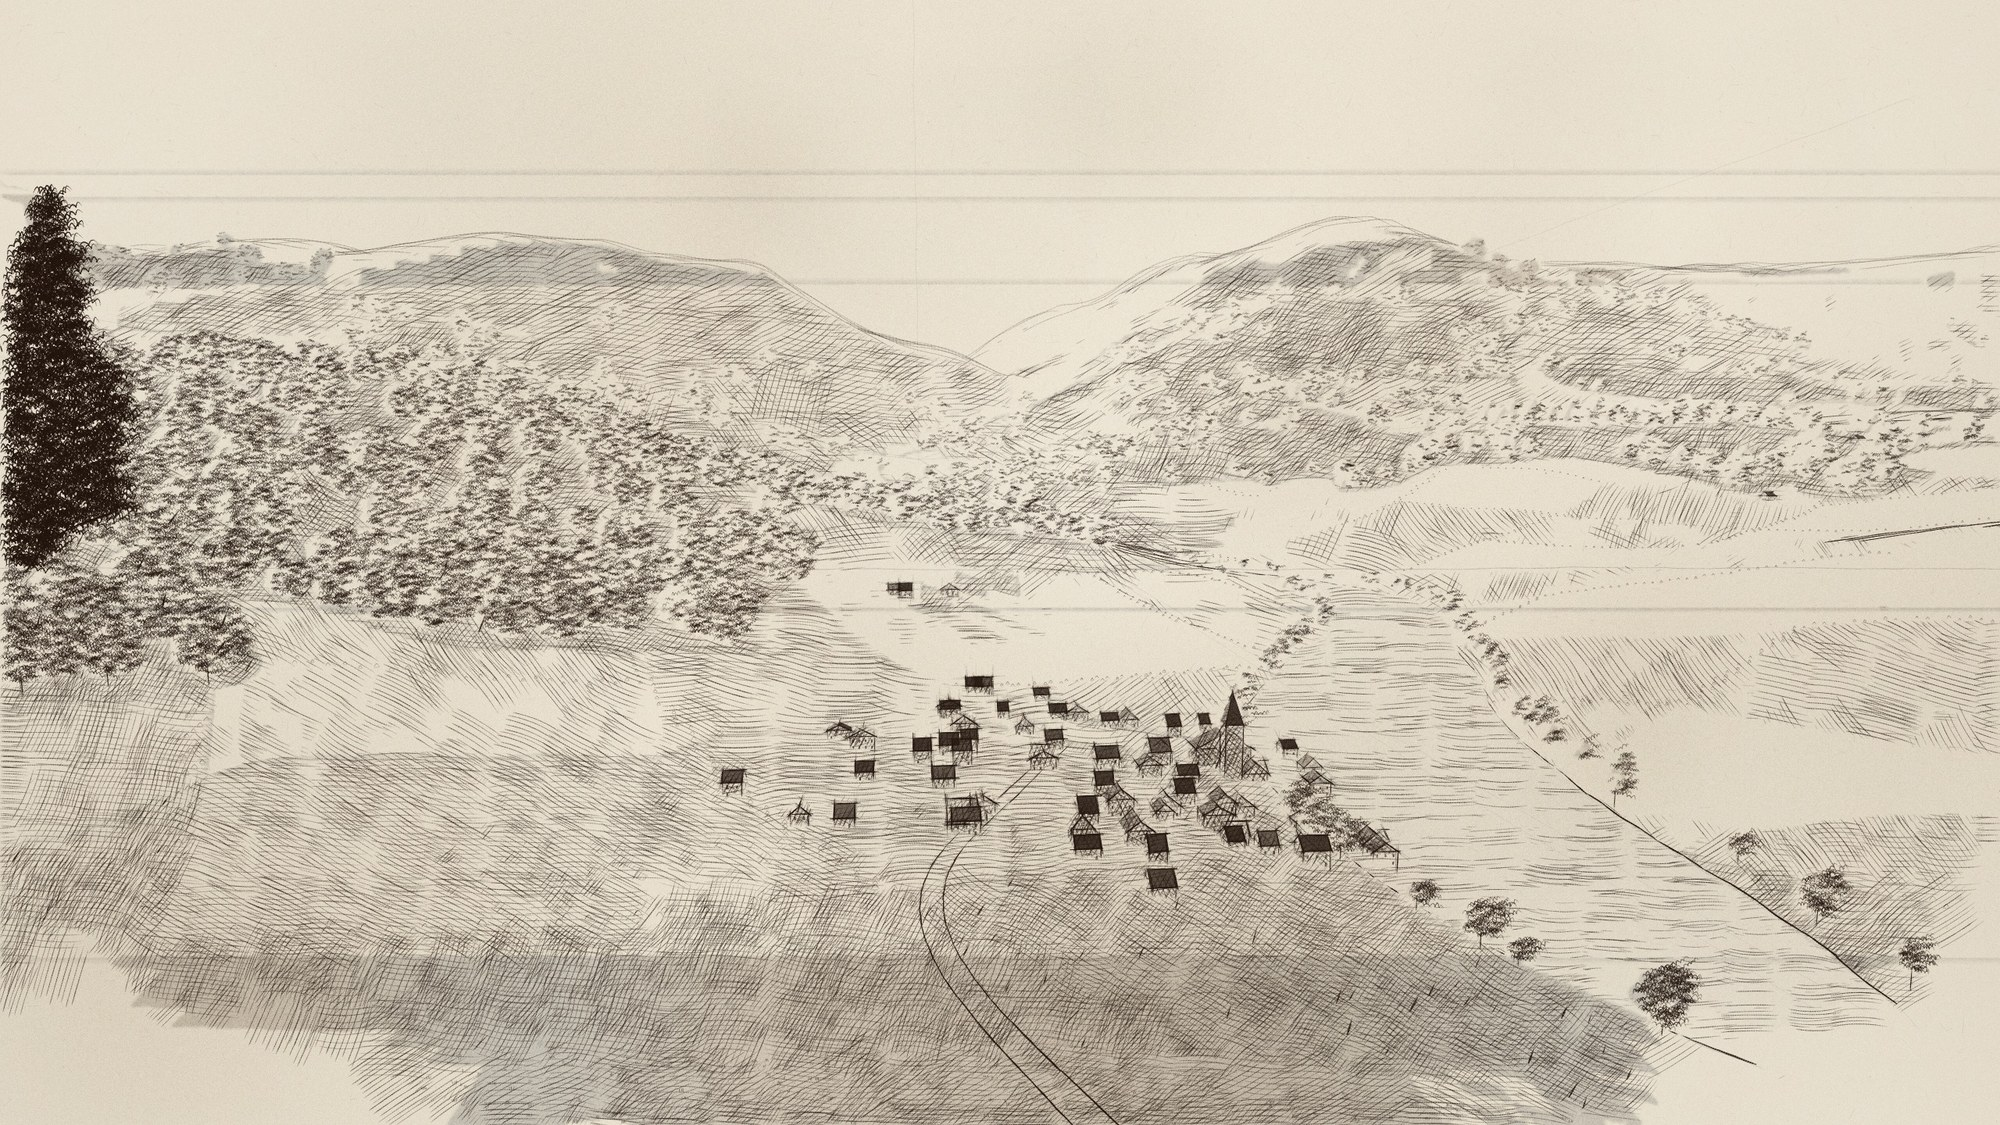
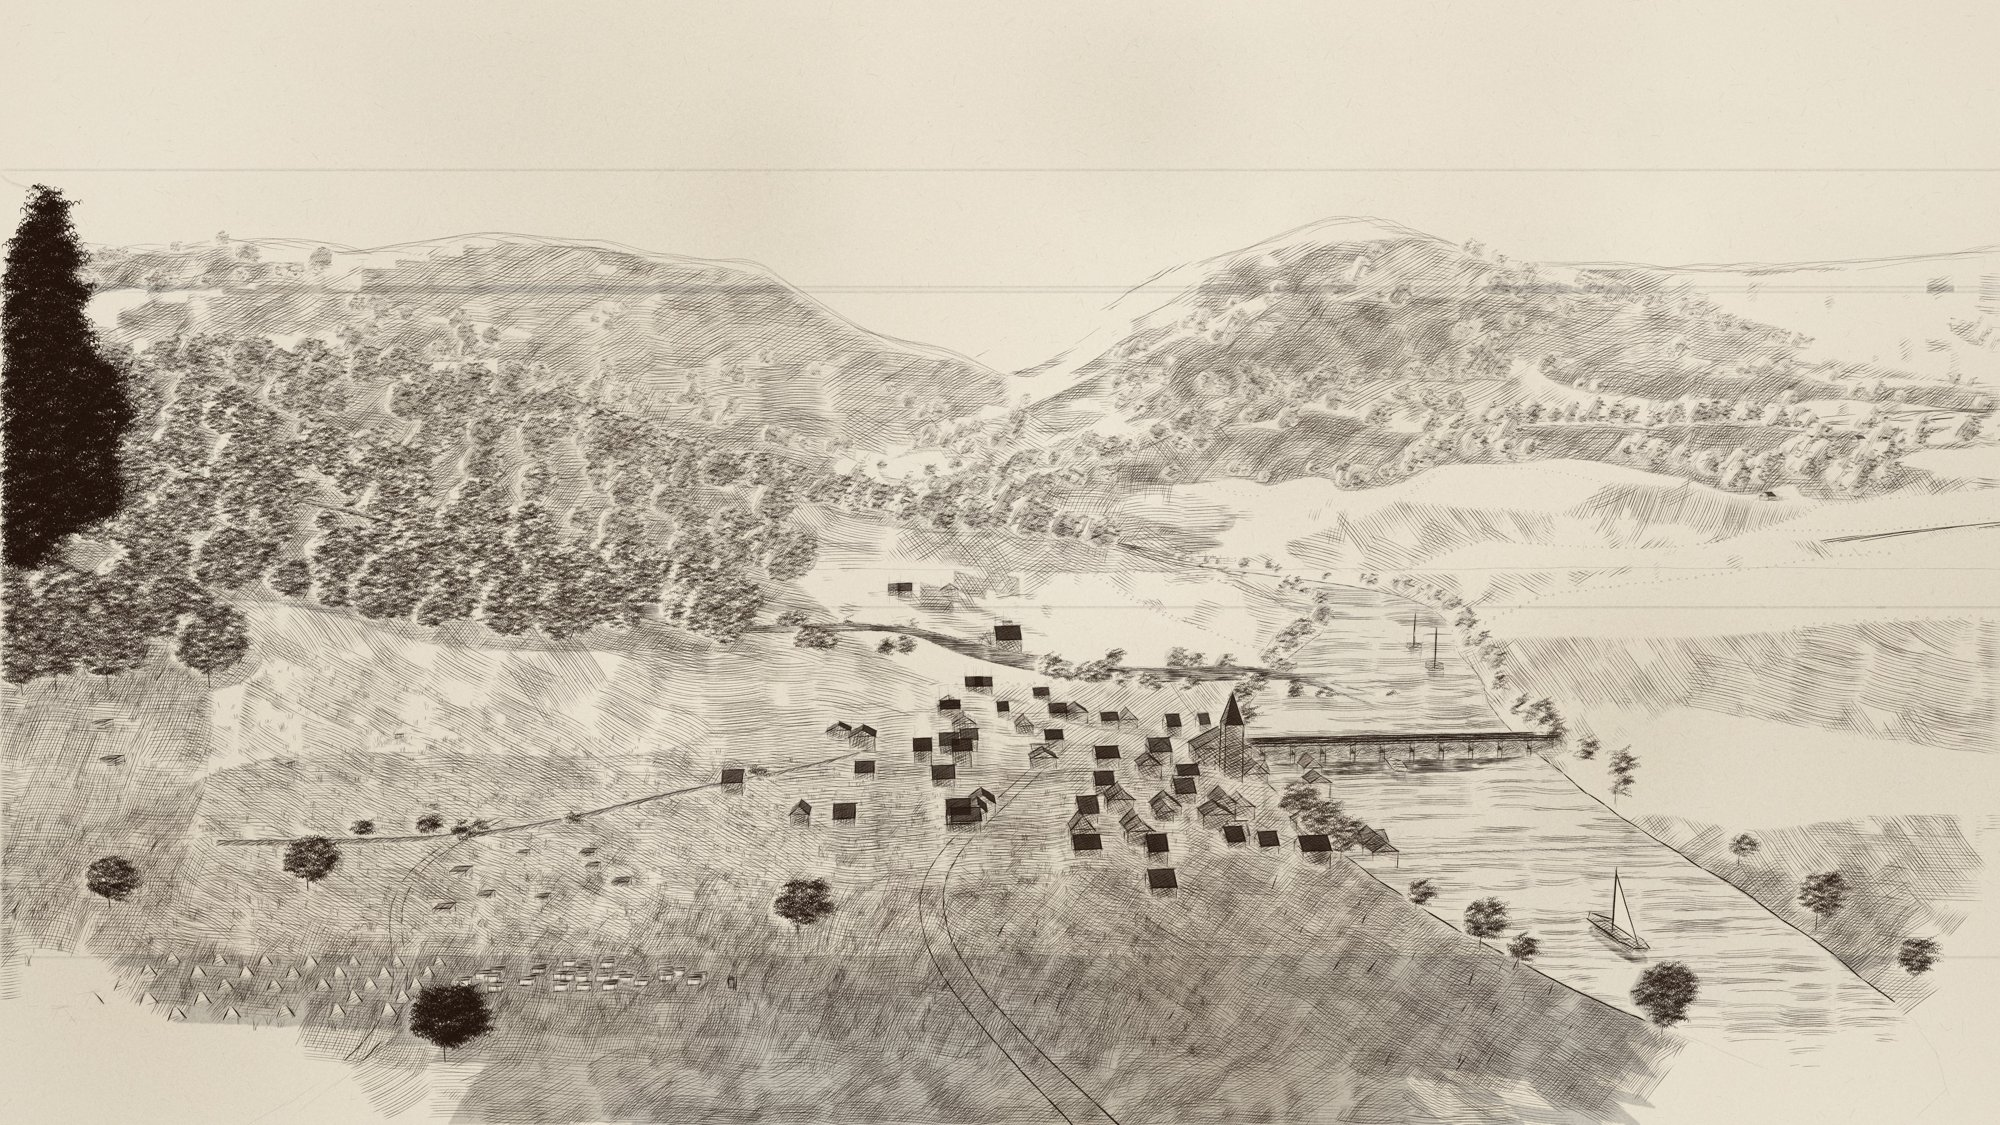
Update Valley and City to the full-size finals (#6)
Valley gets pass 3 (brook, mill, boats, near slope); both pieces
now link to 5120x2880 originals.

Claude-Session: https://claude.ai/code/session_019zZB8qnKhCK2nH5qGwRLnU

diff --git a/docs/art/index.html b/docs/art/index.html
@@ -82,8 +82,8 @@ const WORKS = [
   { id:'rings', title:'Rings', images:[['rings-built-from-marks',5120,2880]] },
   { id:'seaweed-head', title:'Seaweed head', images:[['seaweed-head',5120,2880]] },
   { id:'still-life', title:'Still life', images:[['pinned-still-life-1',5120,6400],['pinned-still-life-2',5120,6400]] },
-  { id:'valley', title:'Valley', images:[['valley',2560,1440]] },
-  { id:'city', title:'City', images:[['city',2560,1440]] },
+  { id:'valley', title:'Valley', images:[['valley',5120,2880]] },
+  { id:'city', title:'City', images:[['city',5120,2880]] },
   { id:'fludd-head', title:'Fludd head', images:[['fludd-head',5120,7168]] },
 ];
 // flat sequence: every image of every work, in order
